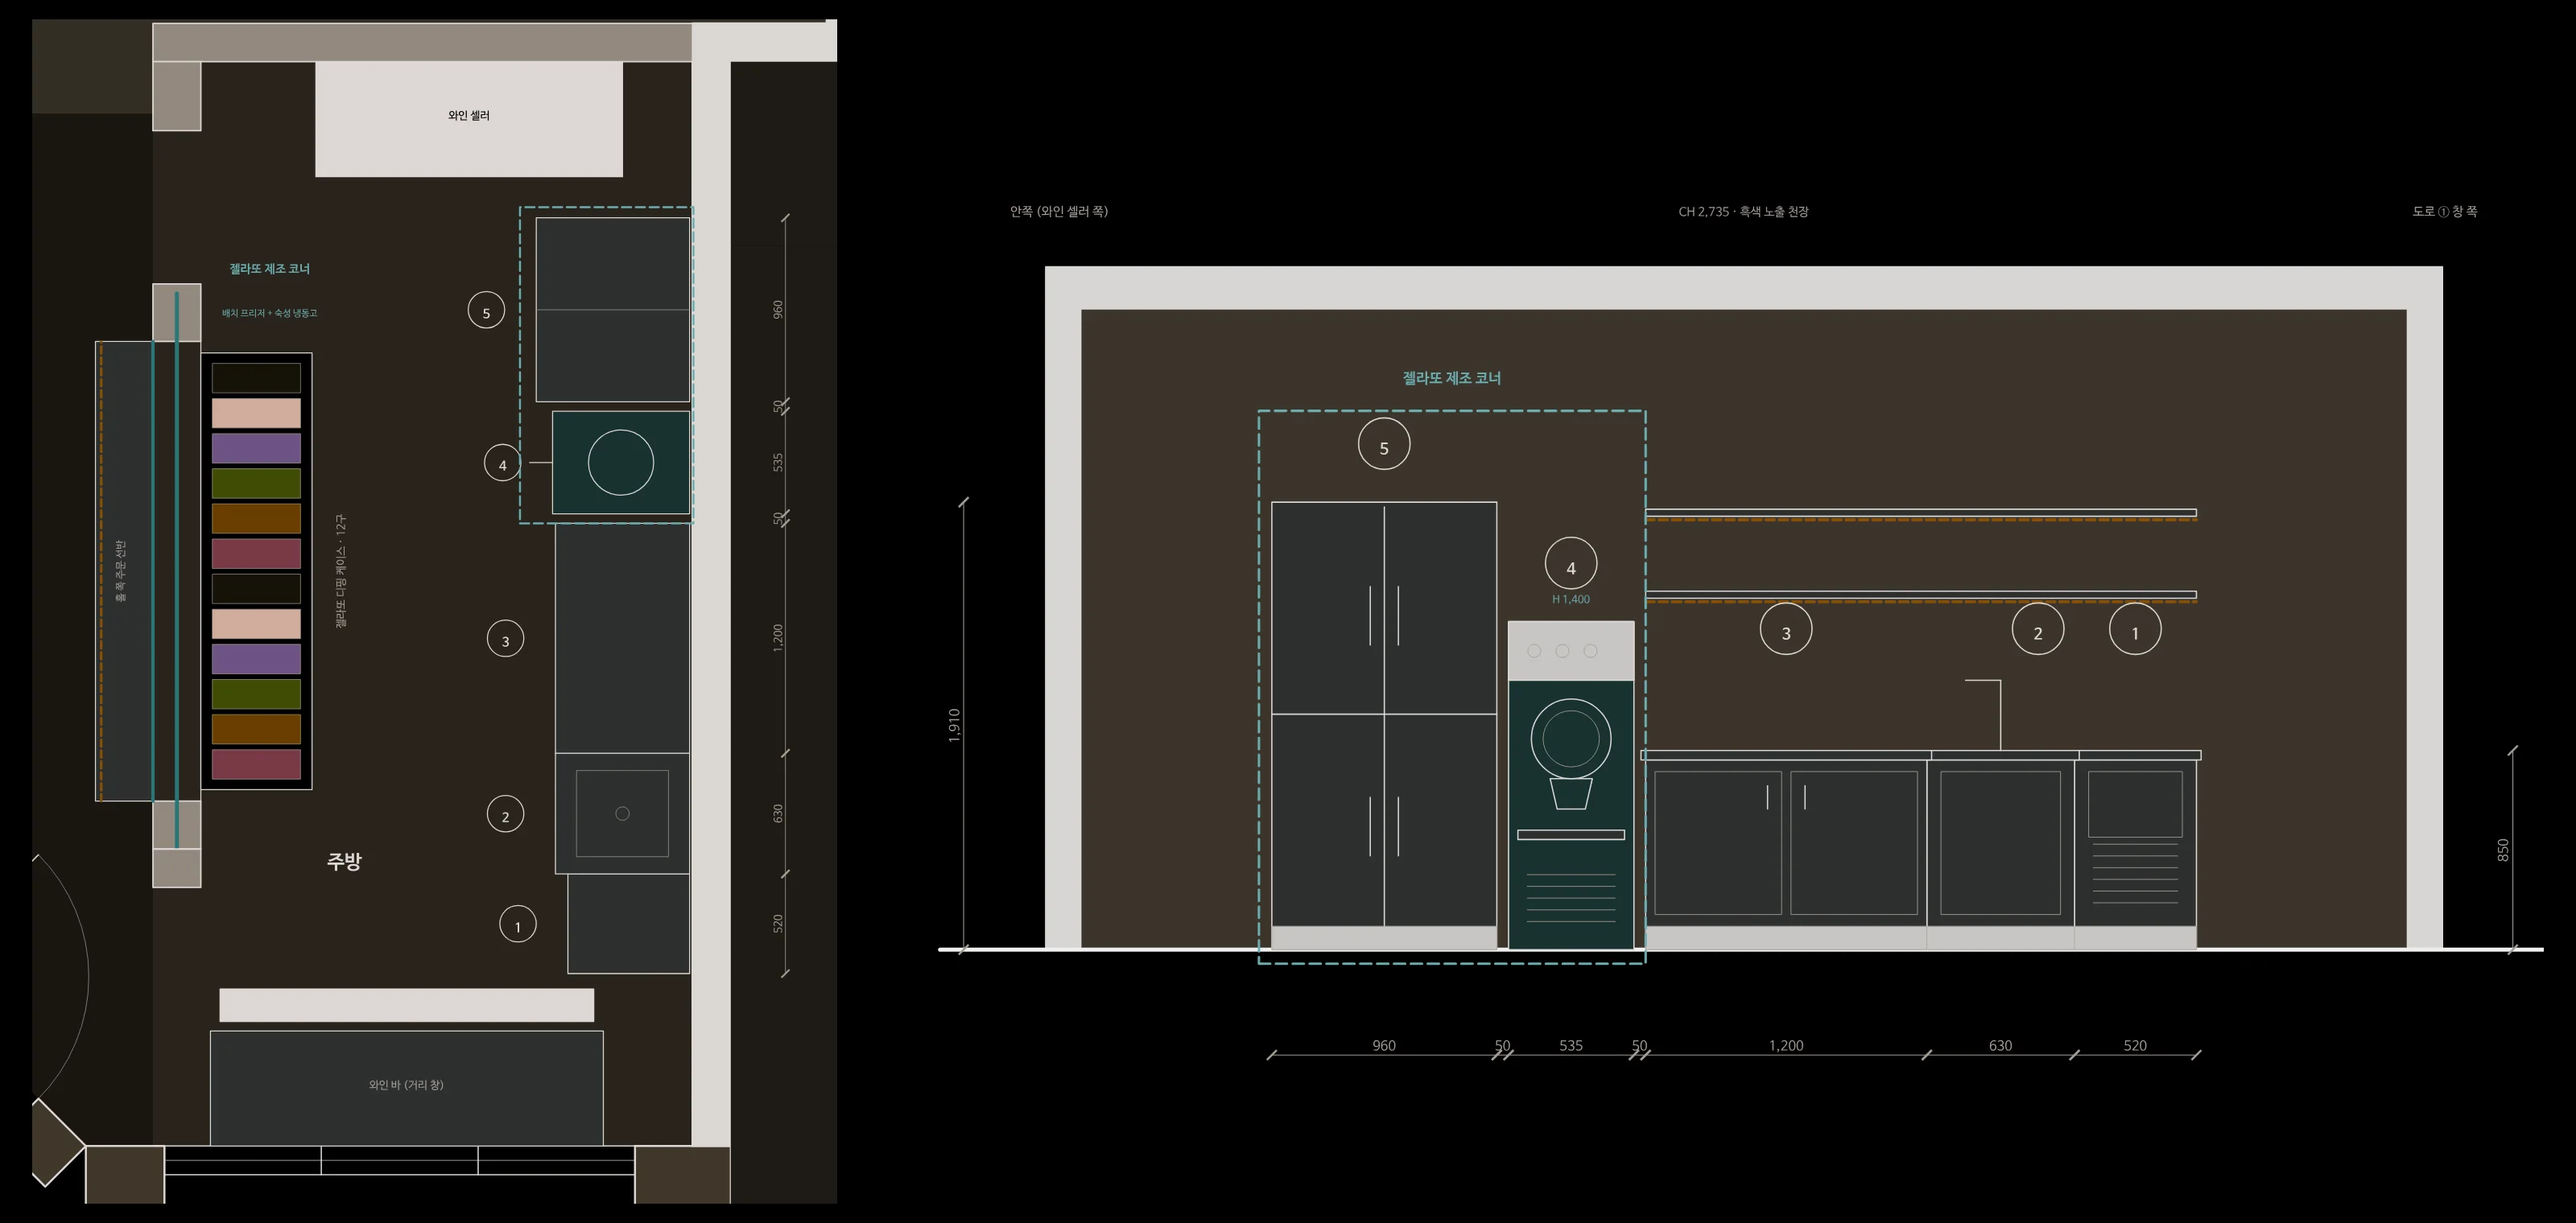
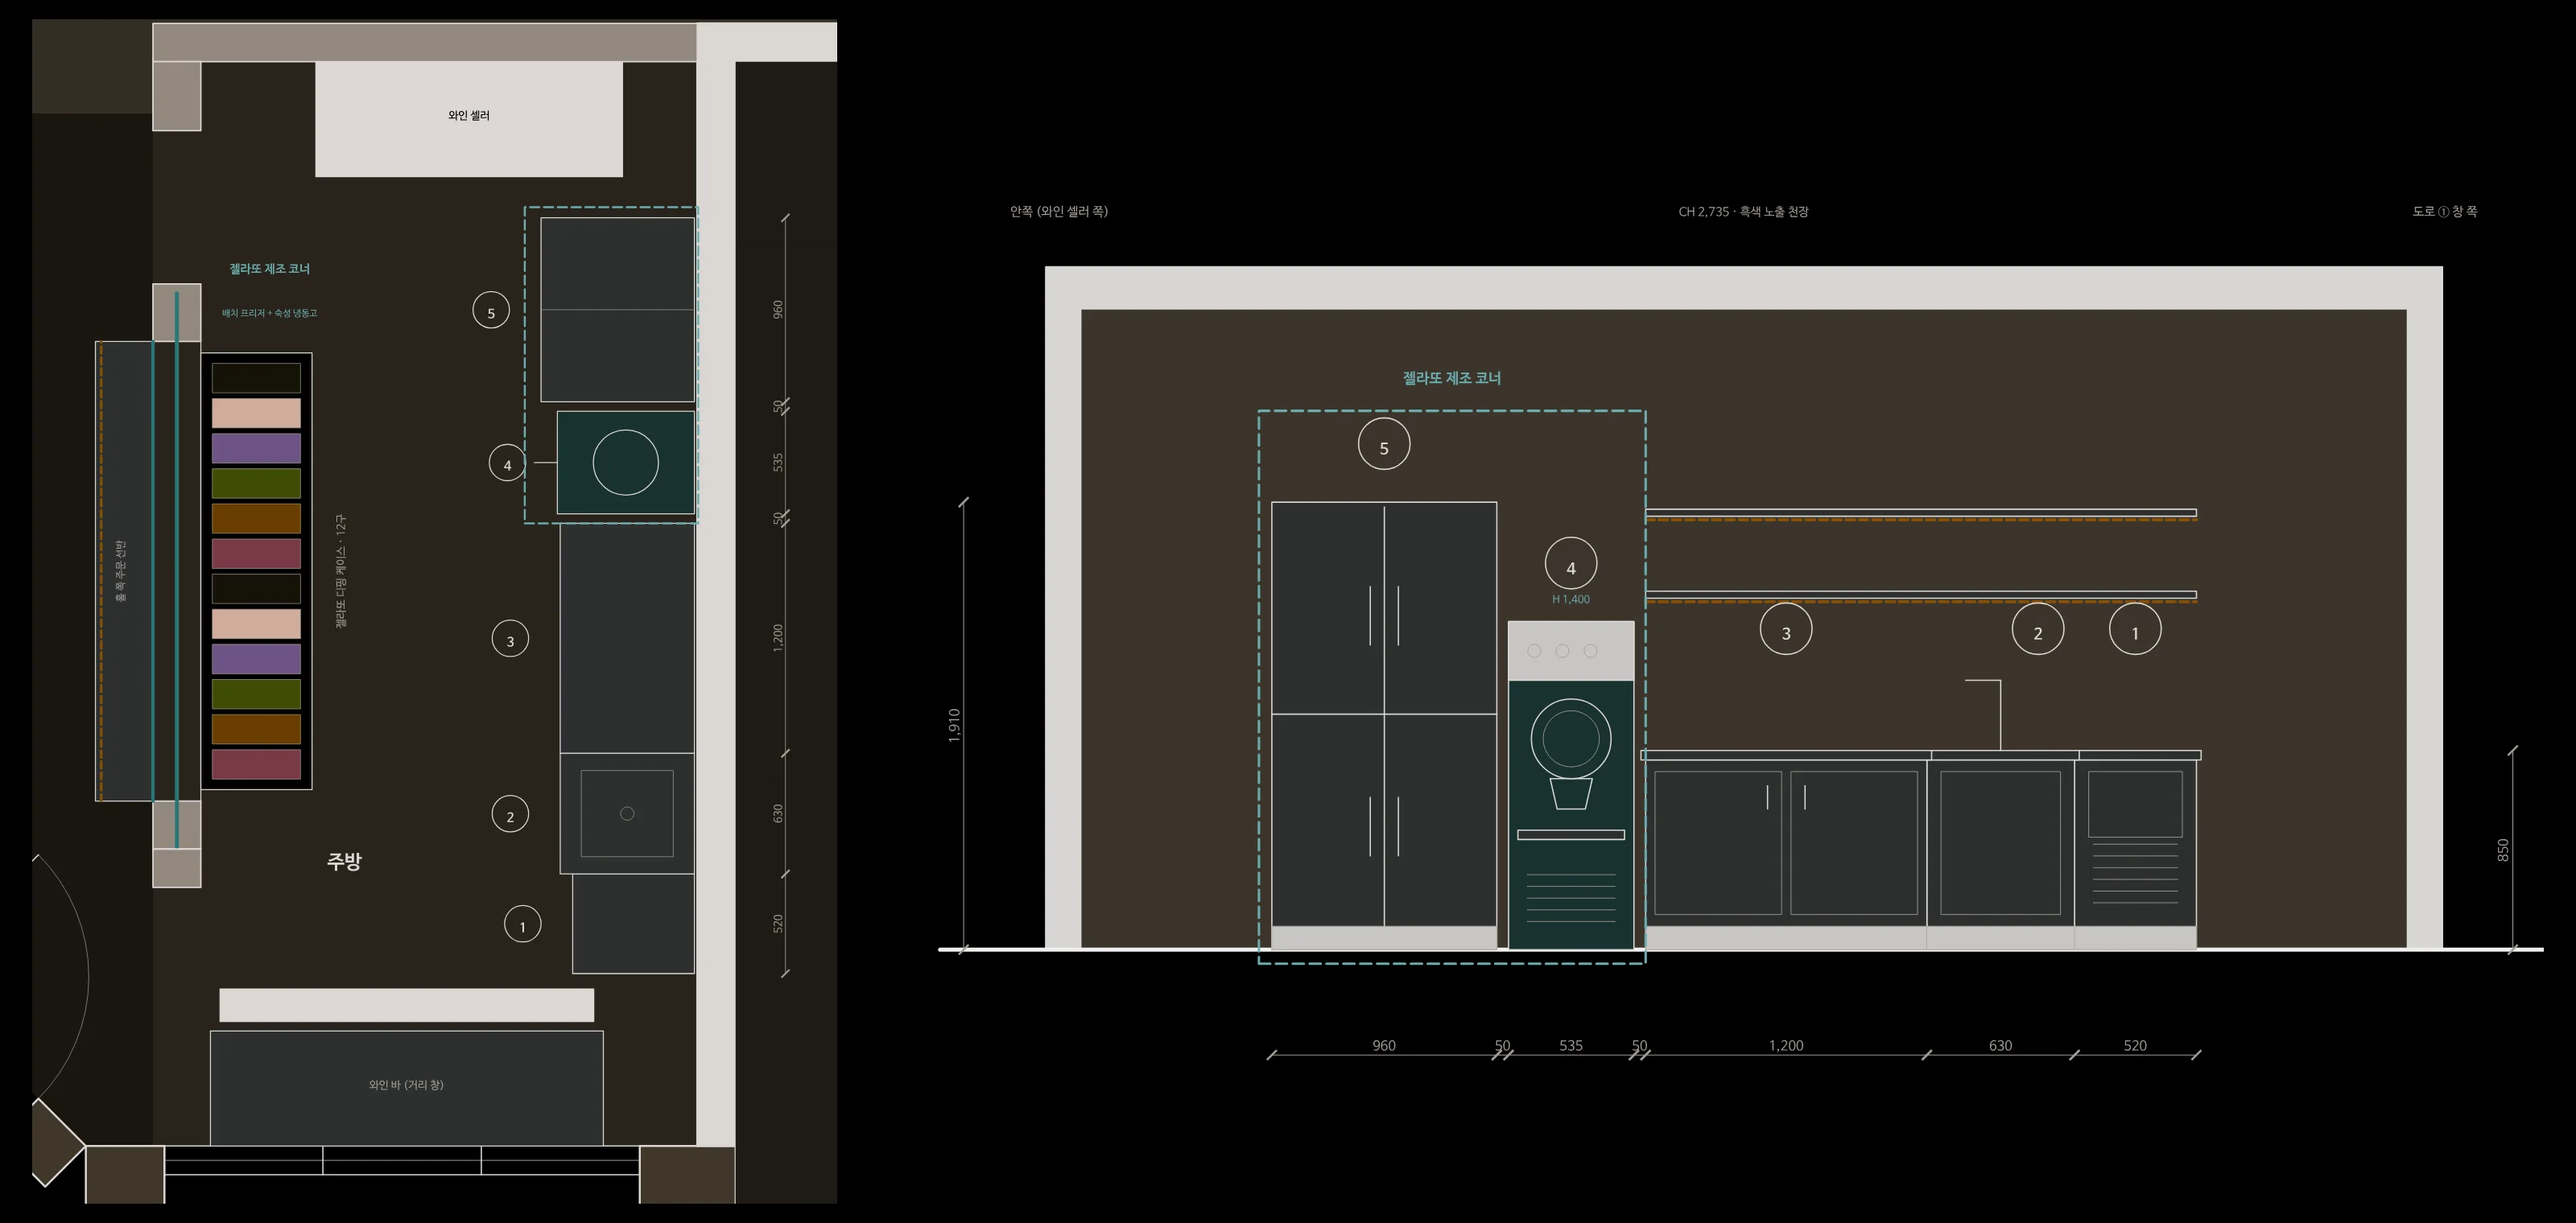
파우더룸 신사점: 건축물현황도 CAD(B-01) · 설계 평면 현황도 적용(B-02)
Claude-Session: https://claude.ai/code/session_01VBsbKGa7mhtJpe9oDdDUyV

diff --git a/powderroom-sinsa/index.html b/powderroom-sinsa/index.html
@@ -261,8 +261,8 @@ footer nav{display:flex;flex-wrap:wrap;gap:16px} footer a{text-decoration:none} 
 </section>
 
 <div class="facts"><div class="wrap"><dl>
-  <div><dt>Site</dt><dd>12,000 × 4,765<small>mm · 코너 · 현황도 틀</small></dd></div>
-  <div><dt>Area</dt><dd>63<small>㎡ · 19평</small></dd></div>
+  <div><dt>Site</dt><dd>12,000 × 4,790<small>mm · 코너 · 현황도 틀</small></dd></div>
+  <div><dt>Area</dt><dd>64<small>㎡ · 19평</small></dd></div>
   <div><dt>Seats</dt><dd>23<small>석 · 창가 5 · 하이 4 · 안쪽 14</small></dd></div>
   <div><dt>Level</dt><dd>+150<small>안쪽 파우더룸</small></dd></div>
   <div><dt>Program</dt><dd>Wine &amp; Gelato<small>와인 · 젤라또</small></dd></div>
@@ -418,9 +418,9 @@ footer nav{display:flex;flex-wrap:wrap;gap:16px} footer a{text-decoration:none} 
     <div class="sec-head"><span class="sec-no">07</span><span class="eyebrow">Drawings</span><h2>배치안과 현황 실측도</h2></div>
     <div class="dplan">
       <button class="plan" type="button" data-lb="d-plan" data-cap="배치 평면 · NTS"><img src="img/d-plan.webp" alt="파우더룸 신사점 배치 평면도" width="920" height="1258" loading="lazy"></button>
-      <div><p class="lede" style="margin-bottom:26px">건축물현황도 틀(1층 1/150)을 기준으로 그린 배치안입니다. 화장실 블록 2,800 × 2,800은 통로 · 좌측 창고 · 전면 공용 화장실로 나눴습니다. 앞쪽은 창가 바, 칸막이의 패스 개구에 젤라또 디핑 케이스, 그 뒤가 주방, 통로 끝 한 단 위가 파우더룸입니다.</p>
+      <div><p class="lede" style="margin-bottom:26px">건축물현황도 틀(1층 1/150)을 기준으로 그린 배치안입니다. 화장실 블록 2,800 × 2,600은 통로 · 좌측 창고 · 전면 공용 화장실로 나눴습니다. 앞쪽은 창가 바, 칸막이의 패스 개구에 젤라또 디핑 케이스, 그 뒤가 주방, 통로 끝 한 단 위가 파우더룸입니다.</p>
         <dl class="plan-specs">
-          <div><dt>외곽</dt><dd>깊이 12,000 · 폭 4,765 / 5,465 (현황도 틀)</dd></div>
+          <div><dt>외곽</dt><dd>깊이 12,000 · 폭 4,790 / 5,690 (현황도 틀)</dd></div>
           <div><dt>순서</dt><dd>모서리 → 홀 → 셀러 앞 → 파우더룸</dd></div>
           <div><dt>좌석</dt><dd>창가 5 · 하이 4 · 안쪽 14</dd></div>
           <div><dt>레벨</dt><dd>홀 ±0 · 파우더룸 +150</dd></div>
@@ -430,7 +430,7 @@ footer nav{display:flex;flex-wrap:wrap;gap:16px} footer a{text-decoration:none} 
     </div>
     <div class="doc-tabs" id="docTabs" role="tablist" aria-label="도면 묶음">
       <button role="tab" aria-selected="true" data-set="proposal">제안 도면<small>3</small></button>
-      <button role="tab" aria-selected="false" data-set="survey">현황 실측도<small>A-00 – A-03</small></button>
+      <button role="tab" aria-selected="false" data-set="survey">현황 실측도<small>B-01 · B-02 · A-00 – A-03</small></button>
     </div>
     <div class="sheets" id="sheets"></div>
     <p class="note">도면을 누르면 크게 볼 수 있습니다. 현황 실측도의 주황 ( ) 치수는 추정값입니다.</p>
@@ -440,7 +440,7 @@ footer nav{display:flex;flex-wrap:wrap;gap:16px} footer a{text-decoration:none} 
 <section class="band" id="next">
   <div class="wrap">
     <div class="sec-head"><span class="sec-no">08</span><span class="eyebrow">Next</span><h2>확인할 것과 다음 단계</h2></div>
-    <div class="next"><ul class="chk"><li>재실측: 홀·주방 칸막이 위치(패스 개구 폭), 모서리 사선(현황도 1,800), 단차 높이, 보 위치</li><li>장비: 디핑 케이스 길이(12구 기준 약 2.2m)·배치 프리저 기종 → 전기 용량</li><li>설비: 패스 뒤 싱크 급배수, 기존 트렌치 재사용 범위</li><li>사인: 기존 간판 박스 상태 확인 → 청록 도장·문자 교체 가능 여부</li><li>외부: 필라스터 스타코 마감, 담쟁이 유지 범위 건물 협의</li><li>면적: 메모 25.39평(83.9㎡) ≈ 현황도 근생 면적 / 설계 평면(현황도 틀) 실내 약 63㎡ (계약면적 확인)</li><li>건축물현황도: 후면 창 2,250 · 도로② 후면 문·창 막힘 여부, 통로 끝 공용 화장실 문 위치</li></ul><div class="steps"><div><b>STEP 1</b><p>재실측 · 장비 확정</p></div><div><b>STEP 2</b><p>평면 · 천장 · 입면 도면</p></div><div><b>STEP 3</b><p>견적서 (별도)</p></div><div><b>STEP 4</b><p>조명 시뮬레이션 · 홈페이지 갱신</p></div></div></div>
+    <div class="next"><ul class="chk"><li>재실측: 홀·주방 칸막이 위치(패스 개구 폭), 모서리 사선(현황도 1,800), 단차 높이, 보 위치</li><li>장비: 디핑 케이스 길이(12구 기준 약 2.2m)·배치 프리저 기종 → 전기 용량</li><li>설비: 패스 뒤 싱크 급배수, 기존 트렌치 재사용 범위</li><li>사인: 기존 간판 박스 상태 확인 → 청록 도장·문자 교체 가능 여부</li><li>외부: 필라스터 스타코 마감, 담쟁이 유지 범위 건물 협의</li><li>면적: 메모 25.39평(83.9㎡) ≈ 현황도 근생 면적 / 설계 평면(현황도 틀) 실내 약 64㎡ (계약면적 확인)</li><li>건축물현황도: 후면 창 2,250 · 도로② 후면 문·창 막힘 여부, 통로 끝 공용 화장실 문 위치</li></ul><div class="steps"><div><b>STEP 1</b><p>재실측 · 장비 확정</p></div><div><b>STEP 2</b><p>평면 · 천장 · 입면 도면</p></div><div><b>STEP 3</b><p>견적서 (별도)</p></div><div><b>STEP 4</b><p>조명 시뮬레이션 · 홈페이지 갱신</p></div></div></div>
   </div>
 </section>
 
@@ -463,7 +463,7 @@ footer nav{display:flex;flex-wrap:wrap;gap:16px} footer a{text-decoration:none} 
 (function () {
   var VIEWS = [{"k": "hall", "t": "홀 전체", "en": "HALL", "h": "입구에서 안쪽 방까지", "f": "창가 바 · 젤라또 패스 · 단 위 파우더룸", "d": "왼쪽은 롤스크린 앞 스테인리스 창가 바와 흑색 스툴, 오른쪽은 청록 골유리 띠 아래 패스 창에 앉힌 젤라또 디핑 케이스입니다. 통로 끝에서 한 단 올라서면 민트 사인 벽의 파우더룸이 보입니다."}, {"k": "pass", "t": "젤라또 패스", "en": "PASS", "h": "유리 너머로 뜨는 젤라또", "f": "디핑 케이스 · 유리 가드 · 홀 쪽 스테인리스 선반", "d": "기존 칸막이를 남기고 길이 약 2.4m를 열어 그 자리에 디핑 케이스를 넣었습니다. 직원은 주방 안에서 떠 주고, 손님은 홀 쪽 선반 앞에서 고릅니다. 케이스 아래 웜 라이트가 스타코 결을 드러내고, 위로는 청록 골유리 띠."}, {"k": "kitchen", "t": "젤라또 주방", "en": "KITCHEN", "h": "주방 안에서 본 패스", "f": "디핑 케이스 · 스테인리스 · 도로① 위로 올리는 폴딩 창", "d": "가열 조리가 없어 후드와 덕트를 걷어냈습니다. 패스에 붙인 디핑 케이스 너머로 홀이 보이고, 스테인리스 작업대 위로 골유리 상부장. 도로① 쪽 끝 창은 위로 열어 테이크아웃 창으로 씁니다."}, {"k": "room", "t": "파우더룸", "en": "POWDER ROOM", "h": "한 단 위의 와인 방", "f": "그레이 패브릭 긴 의자 · 와인 장 · 골유리 글라스장", "d": "바닥을 한 단(+150) 올린 안쪽 방입니다. 긴 의자 아래와 와인 장 선반에만 빛을 두고, 천장 트랙 스폿은 테이블만 비춥니다. 정면 벽에는 민트 백라이트 사인."}];
   var CUTS = [{"k": "exterior", "t": "모서리 야간", "s": "청록 간판 박스 · 골유리 창"}, {"k": "hall", "t": "홀 전체", "s": "창가 바와 젤라또 패스"}, {"k": "pass", "t": "젤라또 패스", "s": "유리 너머로 뜨는 젤라또"}, {"k": "kitchen", "t": "젤라또 주방", "s": "디핑 케이스 · 테이크아웃 창"}, {"k": "gelato", "t": "디핑 케이스", "s": "12구 · 유리 가드"}, {"k": "room", "t": "파우더룸", "s": "단 위의 와인 방"}, {"k": "mint", "t": "민트 사인 벽", "s": "방에서 가장 밝은 면"}, {"k": "sign-crop", "t": "간판", "s": "powder room / SINSA"}];
-  var SHEETS = {"proposal": [{"k": "d-plan", "t": "배치 평면", "s": "Plan · NTS"}, {"k": "d-section", "t": "빛 단면", "s": "Section · 조도 서열"}, {"k": "d-facade", "t": "외관 전개 입면", "s": "Elevation · 모서리 펼침"}, {"k": "d-kitchen", "t": "주방 · 젤라또 제조 코너", "s": "Kitchen · 평면 + 동쪽 벽 입면"}], "survey": [{"k": "sheet-a00", "t": "A-00 건축물현황도 대조", "s": "1/75 · A3"}, {"k": "sheet-a01", "t": "A-01 현황 평면도", "s": "1/60 · A3"}, {"k": "sheet-a02", "t": "A-02 외부 입면도", "s": "1/50 · A3"}, {"k": "sheet-a03", "t": "A-03 홀 내부 입면도", "s": "1/50 · A3"}]};
+  var SHEETS = {"proposal": [{"k": "d-plan", "t": "배치 평면", "s": "Plan · NTS"}, {"k": "d-section", "t": "빛 단면", "s": "Section · 조도 서열"}, {"k": "d-facade", "t": "외관 전개 입면", "s": "Elevation · 모서리 펼침"}, {"k": "d-kitchen", "t": "주방 · 젤라또 제조 코너", "s": "Kitchen · 평면 + 동쪽 벽 입면"}], "survey": [{"k": "sheet-b02", "t": "B-02 설계 평면 · 현황도 적용", "s": "1/75 · A3"}, {"k": "sheet-b01", "t": "B-01 건축물현황도 CAD", "s": "1/75 · A3"}, {"k": "sheet-a00", "t": "A-00 건축물현황도 대조", "s": "1/75 · A3"}, {"k": "sheet-a01", "t": "A-01 현황 평면도", "s": "1/60 · A3"}, {"k": "sheet-a02", "t": "A-02 외부 입면도", "s": "1/50 · A3"}, {"k": "sheet-a03", "t": "A-03 홀 내부 입면도", "s": "1/50 · A3"}]};
   var BARS = [["젤라또 케이스 상판", 500, 300], ["홀 쪽 주문 선반", 350, 220], ["창가 바 상판", 300, 160], ["셀러 앞 하이 테이블", 150, 110], ["파우더룸 테이블", 120, 90], ["파우더룸 바닥", 70, 45]];
   var STAGES = ['01 / 04 CORNER', '02 / 04 HALL', '03 / 04 KITCHEN', '04 / 04 POWDER ROOM'];
   var top = document.getElementById('top'), menu = document.getElementById('menuBtn');
